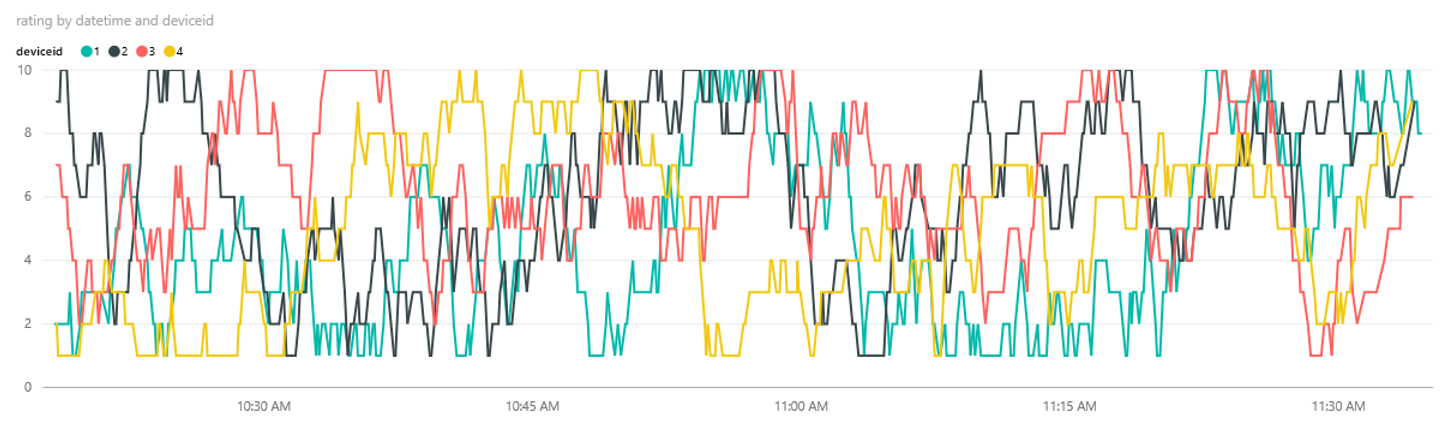
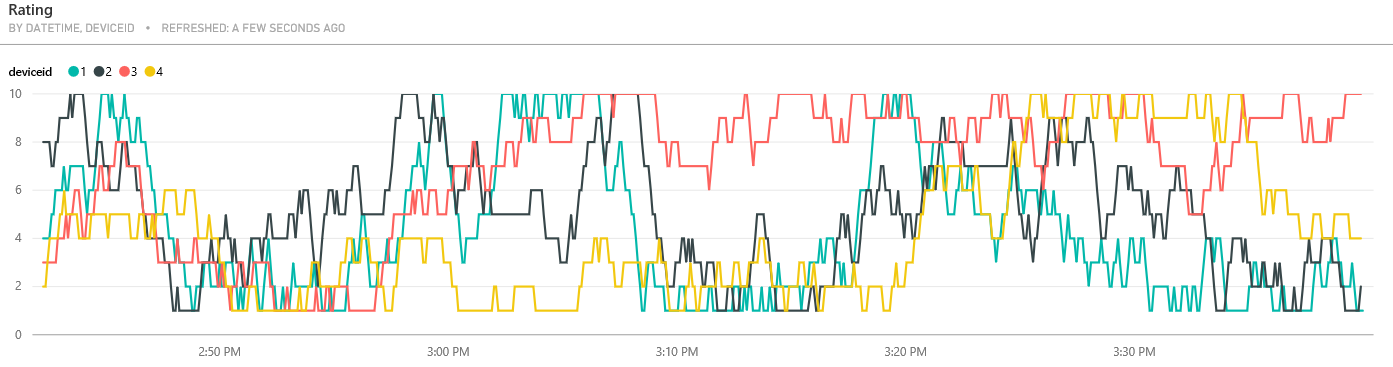
Update realtime and predictive graphs

Changed region(s): [[0.0, 0.0, 0.9878, 0.8692], [0.0, 0.8692, 0.9878, 0.9891]]

diff --git a/README.md b/README.md
@@ -33,7 +33,7 @@ When everything is successfully deployed and running, the final result will be a
 
 Here is a screenshot of a sample dashboard.
 
-![dashboard-usecase-image](./media/dashboard-usecase.png)
+![dashboard-usecase-image](./media/dashboard-realtime-and-predictive.png)
 
 ## Requirements
 
